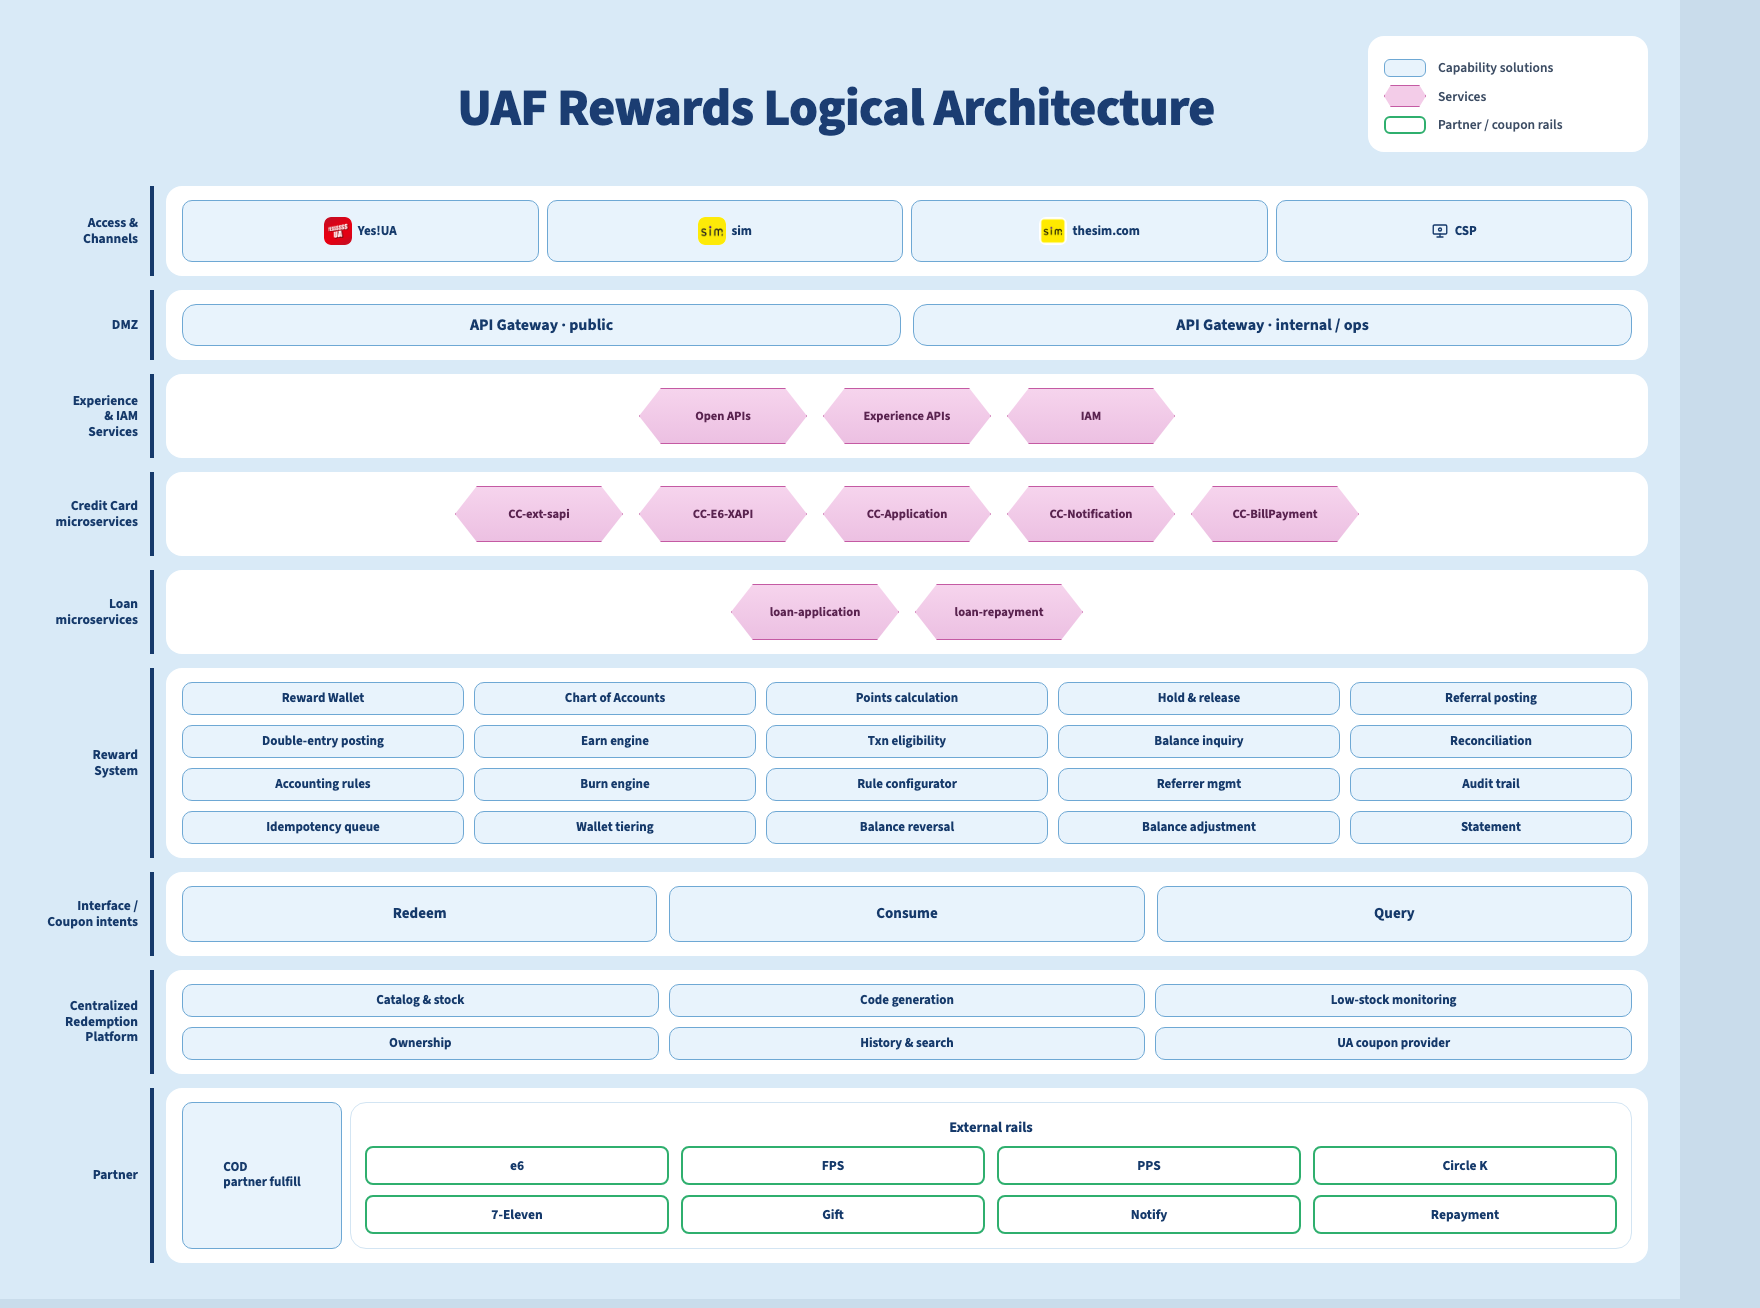
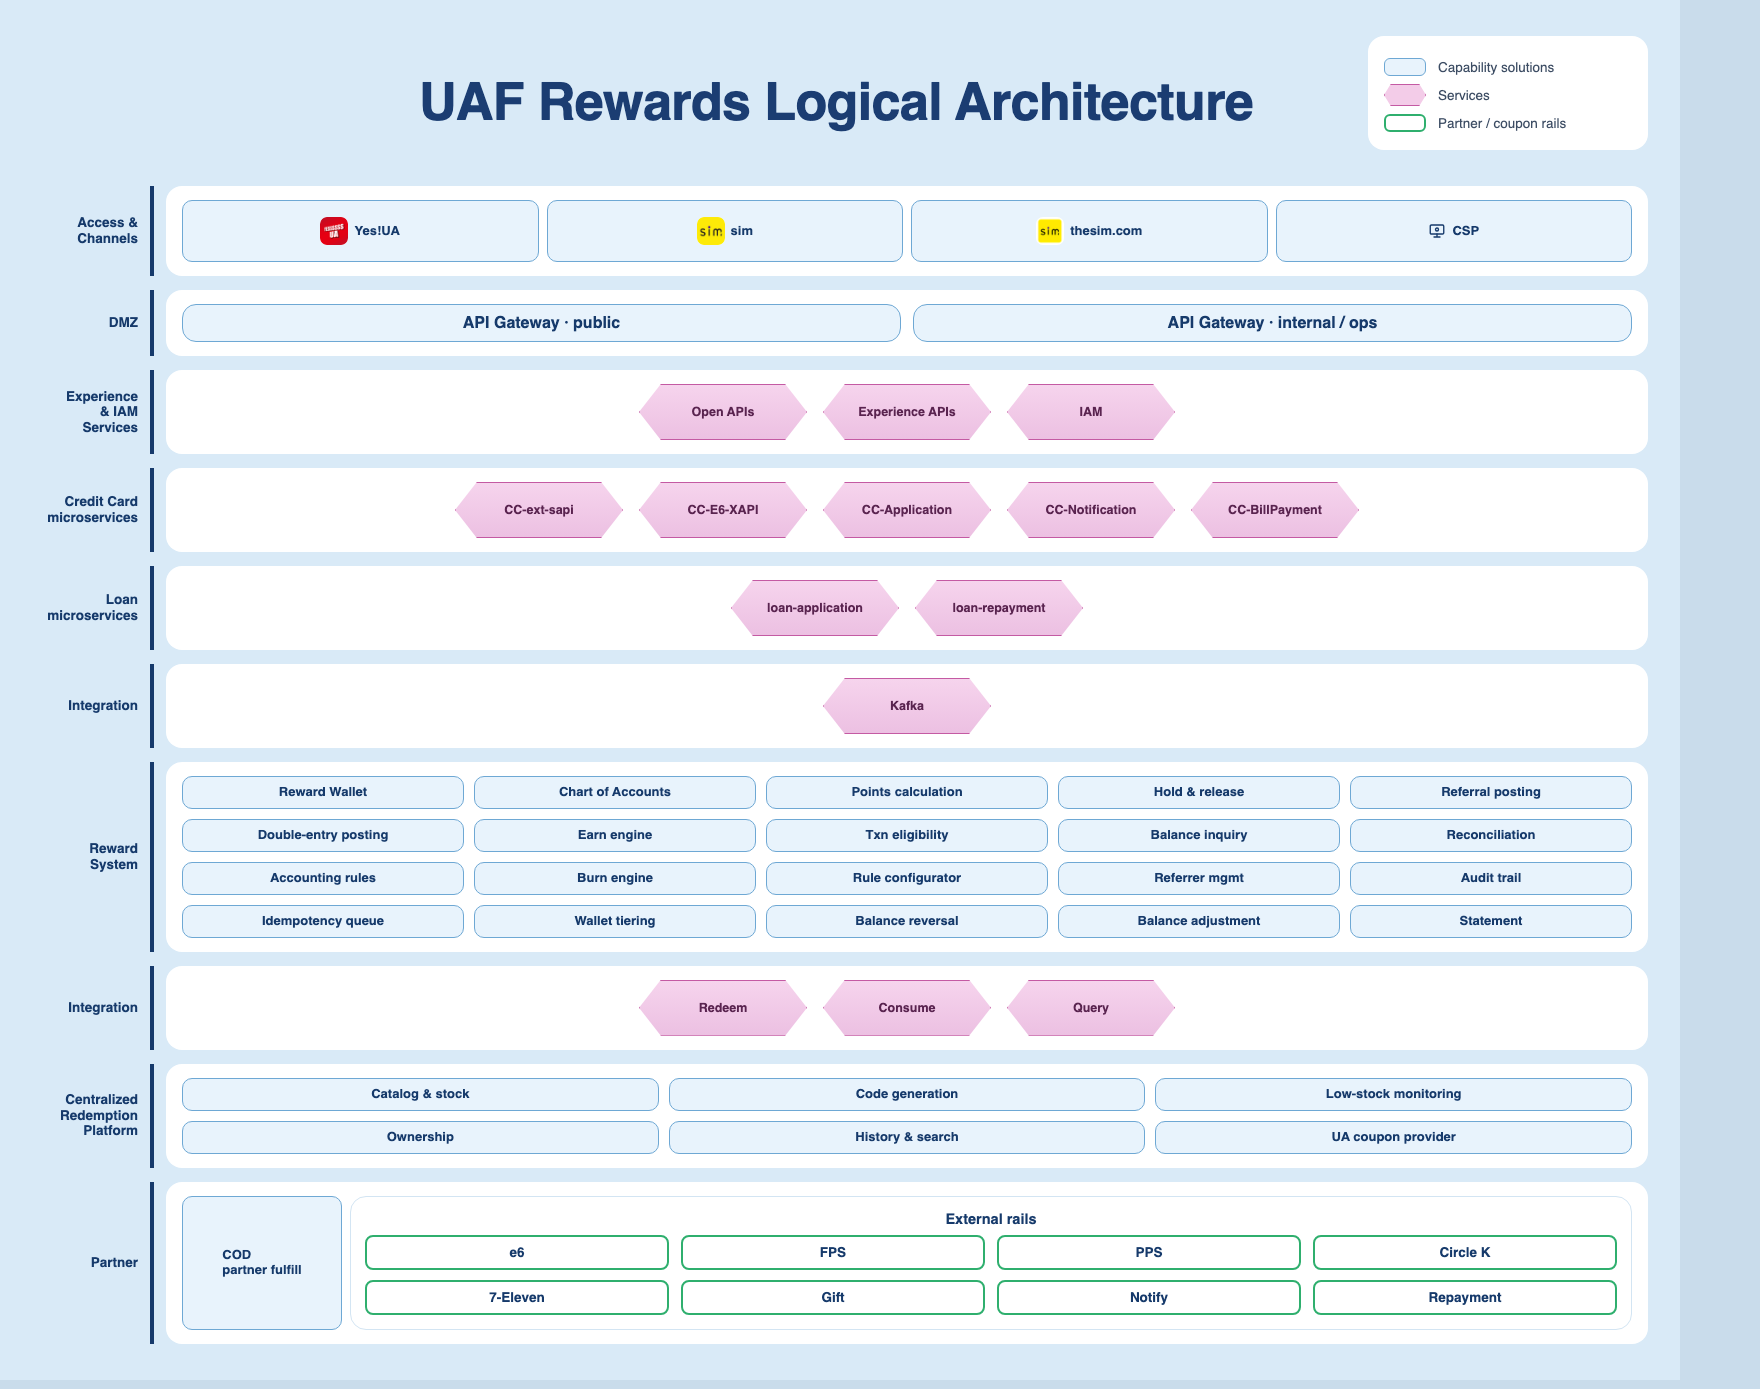
docs(decks): Integration layers — Kafka between Loan and RS; Redeem/Consume/Query as services

diff --git a/docs/decks/uaf-rewards-logical-architecture.html b/docs/decks/uaf-rewards-logical-architecture.html
@@ -14,7 +14,7 @@
   .g{
     display:grid;
     grid-template-columns: 130px 1fr;
-    grid-template-rows: repeat(9, auto);
+    grid-template-rows: repeat(10, auto);
     gap: 14px 12px;
     align-items: stretch;
   }
@@ -72,6 +72,8 @@
   .c8{grid-column:2;grid-row:8}
   .l9{grid-column:1;grid-row:9}
   .c9{grid-column:2;grid-row:9}
+  .l10{grid-column:1;grid-row:10}
+  .c10{grid-column:2;grid-row:10}
 </style>
 </head>
 <body>
@@ -130,8 +132,13 @@
       </div>
     </div>
 
-    <div class="lab l6">Reward<br>System</div>
-    <div class="card c6">
+    <div class="lab l6">Integration</div>
+    <div class="card c6 hexrow">
+      <div class="svc">Kafka</div>
+    </div>
+
+    <div class="lab l7">Reward<br>System</div>
+    <div class="card c7">
       <div class="caps">
         <div class="cap">Reward Wallet</div>
         <div class="cap">Chart of Accounts</div>
@@ -156,15 +163,15 @@
       </div>
     </div>
 
-    <div class="lab l7">Interface /<br>Coupon intents</div>
-    <div class="card c7 verbs">
-      <div class="cap">Redeem</div>
-      <div class="cap">Consume</div>
-      <div class="cap">Query</div>
+    <div class="lab l8">Integration</div>
+    <div class="card c8 hexrow">
+      <div class="svc">Redeem</div>
+      <div class="svc">Consume</div>
+      <div class="svc">Query</div>
     </div>
 
-    <div class="lab l8">Centralized<br>Redemption<br>Platform</div>
-    <div class="card c8">
+    <div class="lab l9">Centralized<br>Redemption<br>Platform</div>
+    <div class="card c9">
       <div class="caps" style="grid-template-columns:repeat(3,1fr)">
         <div class="cap">Catalog &amp; stock</div>
         <div class="cap">Code generation</div>
@@ -175,8 +182,8 @@
       </div>
     </div>
 
-    <div class="lab l9">Partner</div>
-    <div class="card c9 row">
+    <div class="lab l10">Partner</div>
+    <div class="card c10 row">
       <div class="cap" style="min-width:160px">COD<br>partner fulfill</div>
       <div class="panel grow">
         <h3>External rails</h3>
